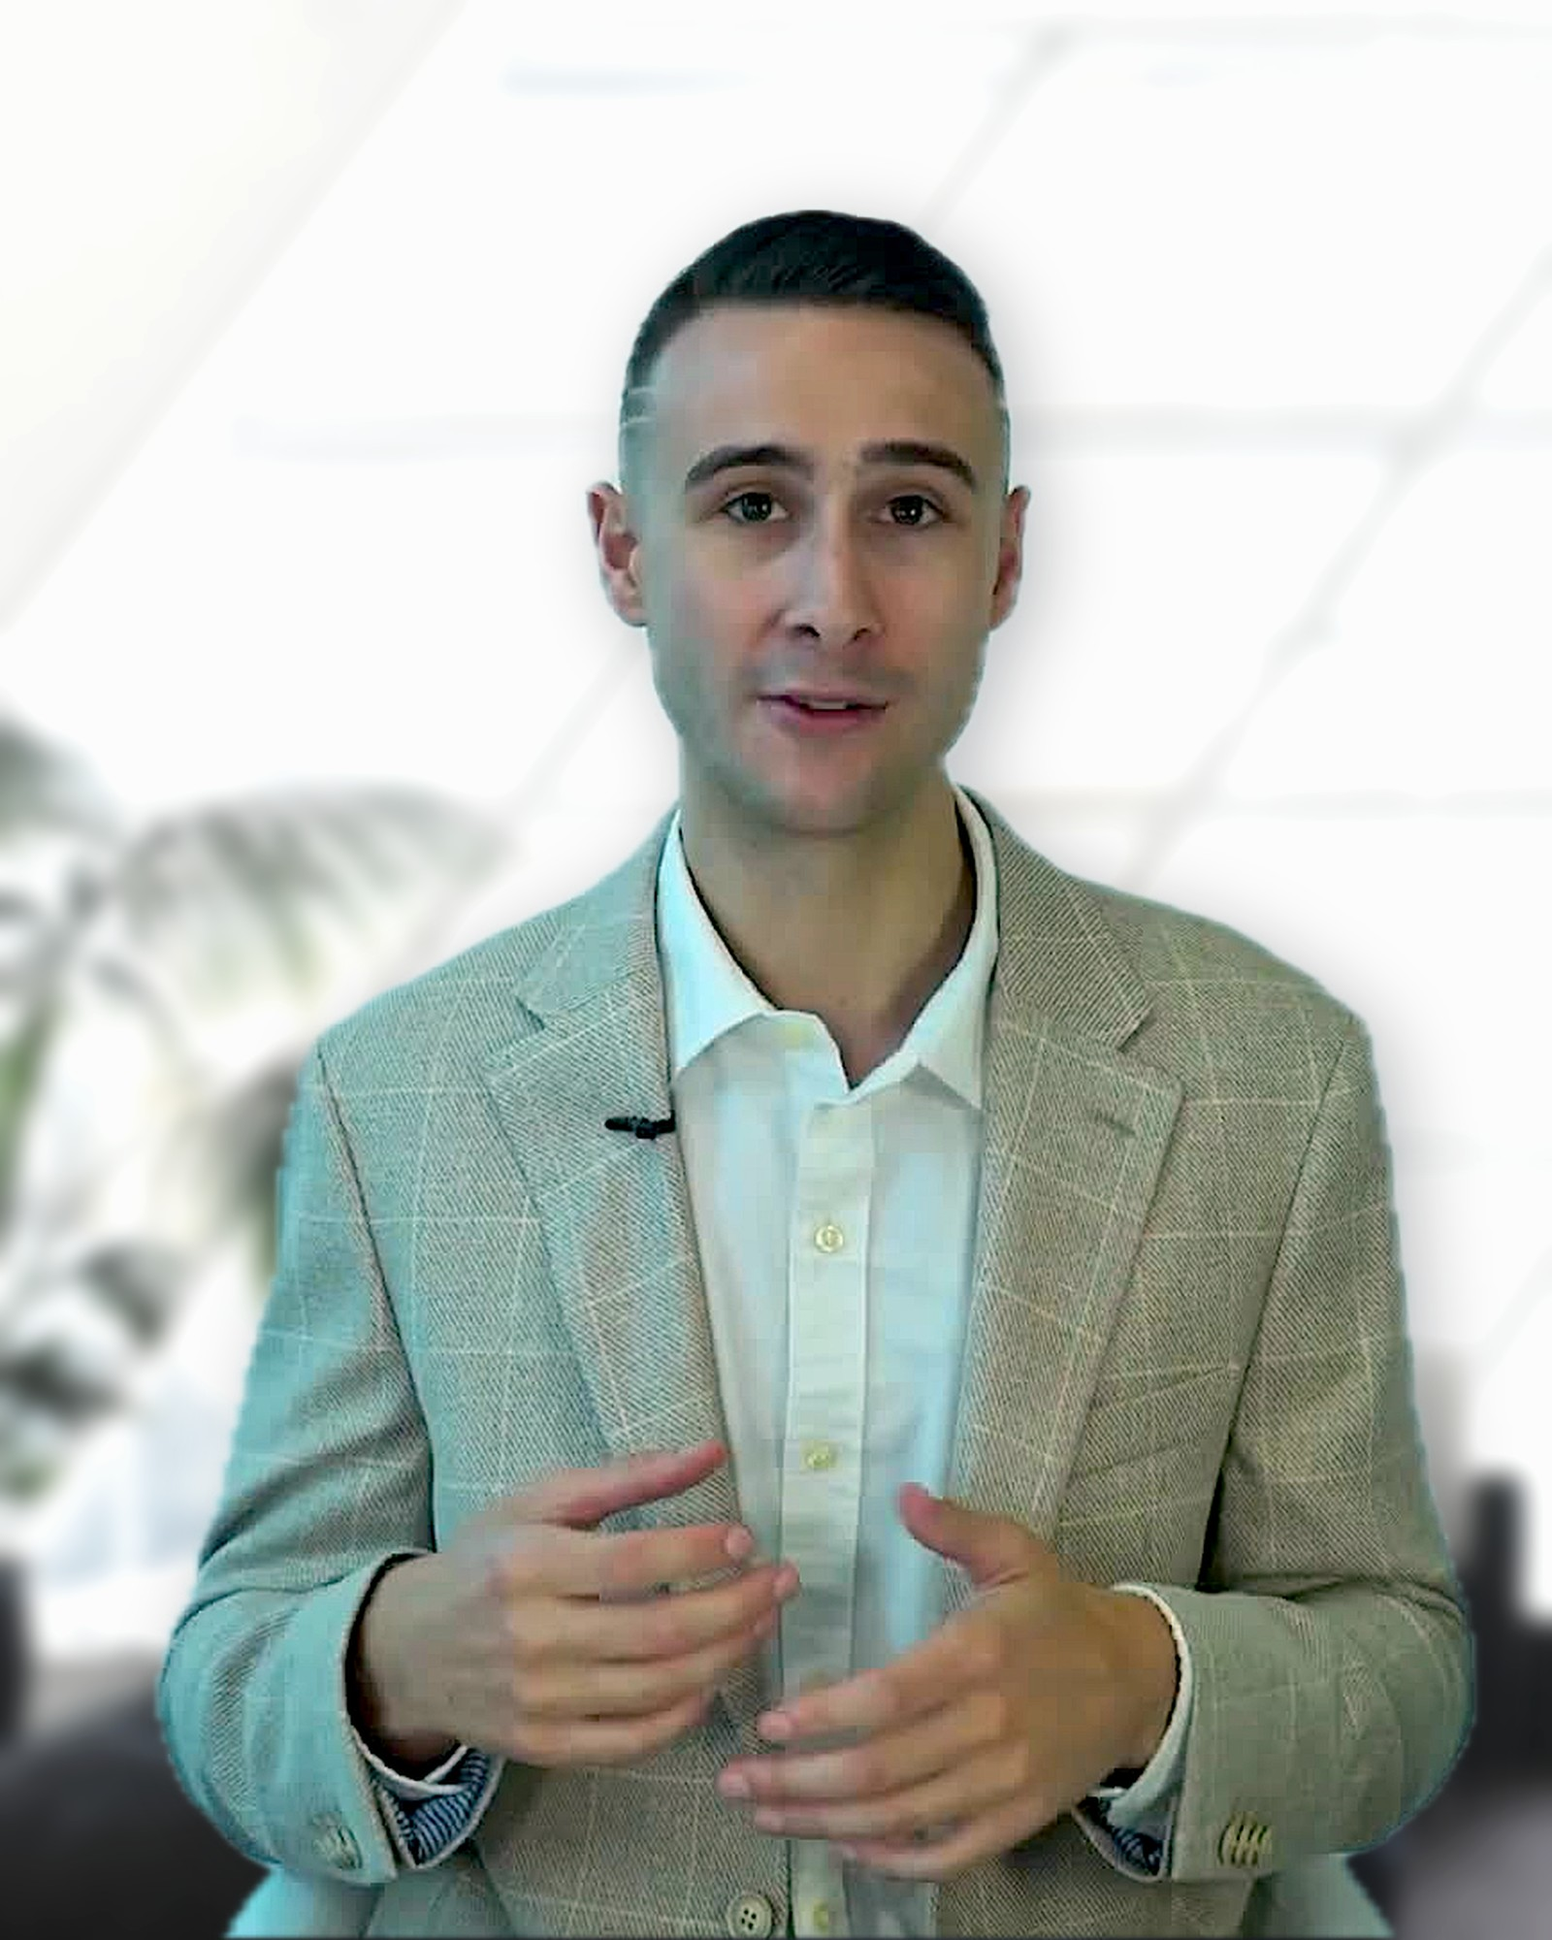
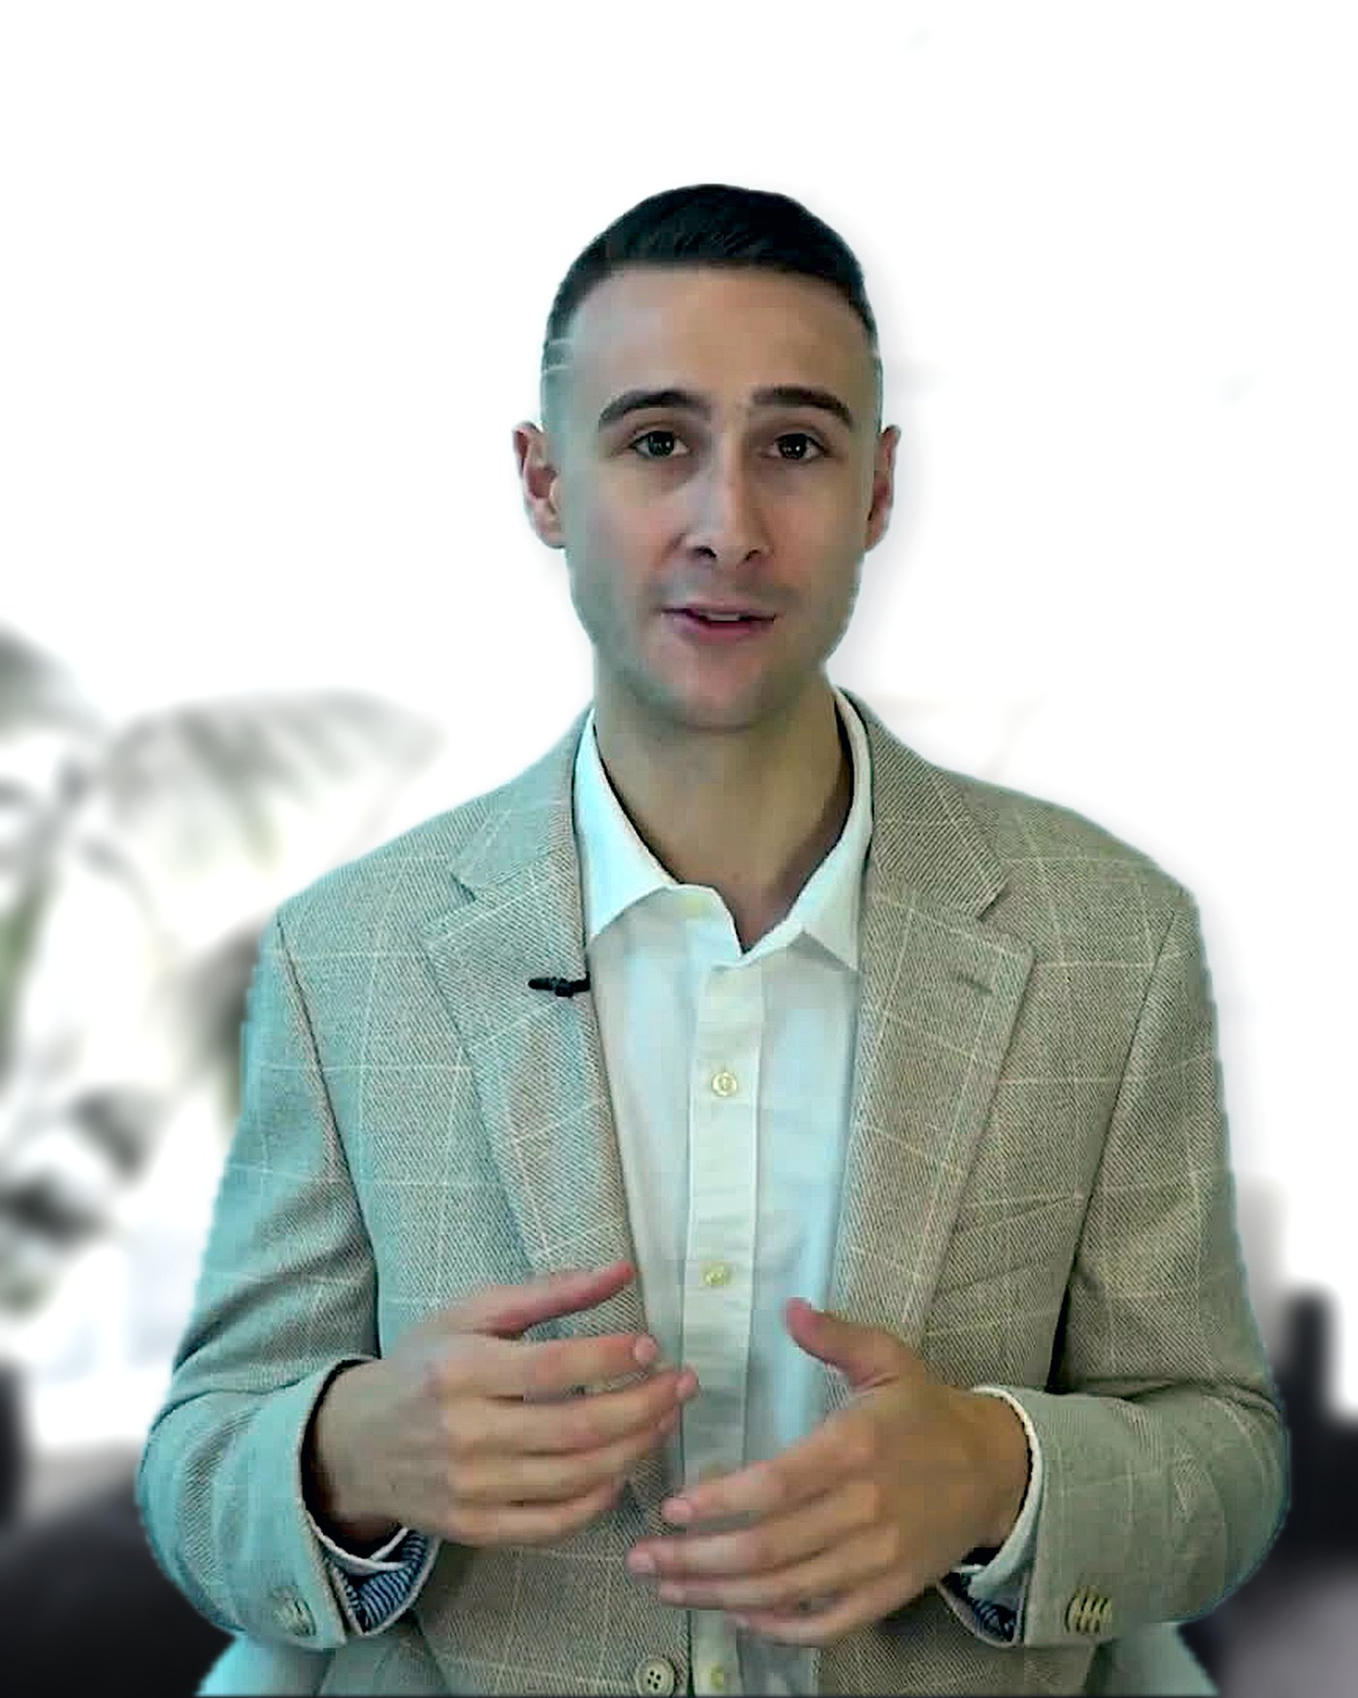
Premium craft pass: art-directed photography, arrival choreography, type
The layout was right after the redesign; what still read as a template was
the photography, the arrival, and the micro-detail. Applying
high-end-visual-design's Editorial Luxury archetype, and deliberately NOT
its pill/double-bezel component rules, which belong to the SaaS register and
would break the sharp editorial one this site is built in.

Photography, the biggest lift:
- Six images from six photographers averaged to six different colours, which
  is the whole "stock photo" tell. Built a grading pass: gray-world white
  balance to kill each frame's cast, gamma exposure match to a common mean
  luminance, desaturation to 0.70, a gentle S-curve, then a split tone with
  shadows to brand navy and highlights to warm cream. All six now average to
  the same neutral and read as one commissioned shoot.
- Josh gets a much lighter version of the same grade so his skin keeps its
  warmth; the hero composite was rebuilt from source in a single pass rather
  than grading an already-graded file.
- Right-sized every image to roughly 2x its real rendered box: assets 6.8MB
  down to 5.0MB. First paint is part of feeling expensive.

Arrival choreography, replacing a flat fade:
- The headline now rises line by line out of its own overflow mask, the
  photograph settles out of a 1.07 scale behind a wiping cream panel, the
  orange rule draws down, and everything else follows one stagger clock.
- Sequenced off document.fonts.ready so the reveal never plays against a
[…]

diff --git a/index.html b/index.html
@@ -16,7 +16,8 @@
 <meta name="twitter:image" content="assets/og.jpg">
 <link rel="preconnect" href="https://fonts.googleapis.com">
 <link rel="preconnect" href="https://fonts.gstatic.com" crossorigin>
-<link href="https://fonts.googleapis.com/css2?family=Playfair+Display:ital,wght@0,400;0,500;0,600;0,700;0,800;1,400;1,500;1,600;1,700&family=Inter:wght@400;500;600;700&display=swap" rel="stylesheet">
+<link href="https://fonts.googleapis.com/css2?family=Playfair+Display:ital,opsz,wght@0,5..1200,400..800;1,5..1200,400..700&family=Inter:opsz,wght@14..32,400..700&display=swap" rel="stylesheet">
+<link rel="preload" as="image" href="assets/hero-josh.jpg" fetchpriority="high">
 <style>
 /* ==========================================================================
    JD STRATEGIC FRANCHISING
@@ -45,7 +46,7 @@
 
   --gut:clamp(20px,4.4vw,64px);
   --maxw:1240px;
-  --pad:clamp(64px,7vw,116px);
+  --pad:clamp(64px,7.6vw,144px);
   --nav-h:74px;
   --bar-h:40px;
 }
@@ -54,11 +55,16 @@ body{
   margin:0;background:var(--canvas);color:var(--body);
   font-family:var(--fb);font-size:17px;line-height:1.62;font-weight:400;
   -webkit-font-smoothing:antialiased;-moz-osx-font-smoothing:grayscale;
+  font-optical-sizing:auto;
+  /* Inter's humanist alternates: single-storey a stays, but the g, l and
+     ampersand pick up the shapes that read as drawn rather than defaulted */
+  font-feature-settings:'cv05' 1,'cv08' 1,'cv11' 1,'ss03' 1;
+  text-rendering:optimizeLegibility;
 }
 img{max-width:100%;display:block;height:auto}
 a{color:inherit;text-decoration:none}
 button{font:inherit;color:inherit;background:none;border:0;cursor:pointer}
-h1,h2,h3,h4{margin:0;font-family:var(--fd);color:var(--ink);font-weight:700;line-height:1.06;letter-spacing:-.012em}
+h1,h2,h3,h4{margin:0;font-family:var(--fd);color:var(--ink);font-weight:700;line-height:1.06;letter-spacing:-.012em;font-optical-sizing:auto;text-wrap:balance}
 p{margin:0}
 ul{margin:0;padding:0;list-style:none}
 :focus-visible{outline:2px solid var(--accent);outline-offset:3px}
@@ -84,7 +90,7 @@ section{padding-block:var(--pad);position:relative;scroll-margin-top:calc(var(--
   font-size:clamp(34px,5.1vw,68px);line-height:1.045;letter-spacing:-.018em;
 }
 .display .it{font-style:italic;color:var(--accent);font-weight:600}
-.lede{font-size:clamp(16.5px,1.3vw,19px);line-height:1.66;color:var(--body);max-width:60ch}
+.lede{font-size:clamp(16.5px,1.3vw,19px);line-height:1.66;color:var(--body);max-width:60ch;text-wrap:pretty}
 .dark .lede{color:rgba(255,255,255,.66)}
 .kicker{font-family:var(--fd);font-size:clamp(22px,2.2vw,30px);font-weight:600;line-height:1.28;color:var(--ink);letter-spacing:-.01em}
 .small{font-size:14.5px;line-height:1.6;color:var(--muted)}
@@ -281,7 +287,7 @@ section{padding-block:var(--pad);position:relative;scroll-margin-top:calc(var(--
 .proc-row{
   display:grid;grid-template-columns:58px minmax(0,1fr);gap:clamp(14px,2.2vw,30px);
   padding-block:30px;border-bottom:1px solid var(--hairline);align-items:start;
-  transition:background .3s ease;
+  transition:background .5s var(--ease-cine);
 }
 .proc-row:hover{background:var(--band)}
 .proc-row .num{padding-top:6px}
@@ -307,7 +313,7 @@ section{padding-block:var(--pad);position:relative;scroll-margin-top:calc(var(--
   text-transform:uppercase;color:var(--muted);
 }
 .tcard q{
-  display:block;font-family:var(--fd);font-style:italic;font-weight:700;
+  display:block;hanging-punctuation:first;text-indent:-.4em;font-family:var(--fd);font-style:italic;font-weight:700;
   font-size:clamp(21px,2.2vw,32px);line-height:1.24;color:var(--ink);
   letter-spacing:-.014em;quotes:none;margin-bottom:22px;
 }
@@ -336,7 +342,7 @@ section{padding-block:var(--pad);position:relative;scroll-margin-top:calc(var(--
 .fittop{display:flex;align-items:center;justify-content:space-between;gap:16px;padding:20px clamp(24px,3vw,40px);border-bottom:1px solid var(--hairline)}
 .fitstep{font-size:10.5px;font-weight:700;letter-spacing:.2em;text-transform:uppercase;color:var(--muted)}
 .fitbar{width:140px;height:2px;background:var(--hairline);flex:none}
-.fitbar i{display:block;height:100%;width:33.33%;background:var(--accent);transition:width .5s var(--ease)}
+.fitbar i{display:block;height:100%;width:100%;background:var(--accent);transform:scaleX(.3333);transform-origin:left;transition:transform .55s var(--ease-cine)}
 .fitbody{padding:clamp(30px,4vw,52px) clamp(24px,3.4vw,48px)}
 .fitq{font-family:var(--fd);font-size:clamp(23px,2.5vw,34px);font-weight:700;color:var(--ink);line-height:1.16;letter-spacing:-.016em;margin-bottom:12px}
 .fithint{font-size:15px;color:var(--muted);margin-bottom:30px}
@@ -375,7 +381,7 @@ section{padding-block:var(--pad);position:relative;scroll-margin-top:calc(var(--
 .tl-r h4{font-family:var(--fd);font-size:17px;font-weight:700;color:var(--ink);line-height:1.3}
 .tl-r p{font-size:15.5px;line-height:1.62;max-width:52ch}
 .pq{margin-top:44px;padding-top:34px;border-top:2px solid var(--ink)}
-.pq q{display:block;font-family:var(--fd);font-style:italic;font-weight:700;font-size:clamp(22px,2.4vw,32px);line-height:1.26;color:var(--ink);letter-spacing:-.014em;quotes:none}
+.pq q{display:block;hanging-punctuation:first;text-indent:-.42em;font-family:var(--fd);font-style:italic;font-weight:700;font-size:clamp(22px,2.4vw,32px);line-height:1.26;color:var(--ink);letter-spacing:-.014em;quotes:none}
 .pq q::before{content:"\201C"}.pq q::after{content:"\201D"}
 .pq cite{display:block;margin-top:18px;font-style:normal;font-size:11.5px;font-weight:700;letter-spacing:.18em;text-transform:uppercase;color:var(--muted)}
 
@@ -387,7 +393,7 @@ section{padding-block:var(--pad);position:relative;scroll-margin-top:calc(var(--
 .cat::after{content:"";position:absolute;inset:0;background:linear-gradient(to top,rgba(6,16,32,.9),rgba(6,16,32,.05) 62%)}
 .cat .lab{position:absolute;left:0;right:0;bottom:0;z-index:2;padding:24px 22px}
 .cat .lab b{display:block;font-family:var(--fd);font-size:clamp(17px,1.5vw,22px);font-weight:700;color:#fff;letter-spacing:-.008em}
-.cat .lab span{display:block;font-size:12.5px;color:rgba(255,255,255,.6);margin-top:6px;line-height:1.45}
+.cat .lab span{display:block;font-size:12.5px;color:rgba(255,255,255,.6);margin-top:6px;line-height:1.45;min-height:2.9em}
 .cats-foot{margin-top:34px;font-family:var(--fd);font-size:clamp(18px,1.8vw,24px);font-weight:500;line-height:1.4;color:rgba(255,255,255,.9);max-width:62ch}
 
 /* ---------- comparison ---------- */
@@ -483,15 +489,91 @@ section{padding-block:var(--pad);position:relative;scroll-margin-top:calc(var(--
 .flegal p+p{margin-top:14px}
 .fcopy{margin-top:26px;padding-top:22px;border-top:1px solid rgba(255,255,255,.08);display:flex;flex-wrap:wrap;gap:12px 26px;justify-content:space-between;font-size:12.5px}
 
+/* ---------- haptics: physical press, kinetic arrow, considered focus ---------- */
+.btn{position:relative;overflow:hidden;isolation:isolate}
+.btn::before{
+  content:"";position:absolute;inset:0;z-index:-1;background:currentColor;
+  opacity:0;transform:translateY(101%);transition:transform .55s var(--ease-cine),opacity .4s ease;
+}
+.btn-solid::before,.btn-accent::before{background:#fff;opacity:0}
+.btn-solid:hover::before,.btn-accent:hover::before{opacity:.09;transform:none}
+.btn-ghost:hover::before{opacity:0}
+.btn:active{transform:scale(.985)}
+.btn svg{transition:transform .42s var(--ease-cine)}
+.btn:hover svg{transform:translateX(6px)}
+
+/* editorial photography answers the cursor slowly, like a plate being leaned into */
+.figband,.proc-fig img,.about-fig{overflow:hidden}
+.figband img,.proc-fig img,.about-fig img{
+  transition:transform 1.3s var(--ease-cine),filter 1.3s var(--ease-cine);
+  will-change:transform;
+}
+.figband:hover img,.proc-fig:hover img,.about-fig:hover img{transform:scale(1.028)}
+
+.tcard,.tsm{transition:border-color .5s var(--ease-cine),background .5s var(--ease-cine)}
+.tsm:hover{border-color:#D6DCE4;background:#fff}
+.proc-row > *{transition:transform .45s var(--ease-cine)}
+.proc-row:hover > *{transform:translateX(12px)}
+.fitopt{transition:padding .42s var(--ease-cine),background .42s var(--ease-cine),border-color .3s ease}
+
+:focus-visible{outline:2px solid var(--accent);outline-offset:4px}
+
+/* the one element that genuinely floats gets a real, long shadow */
+.hero-quote{box-shadow:0 34px 70px -34px rgba(6,16,32,.55),0 2px 6px -2px rgba(6,16,32,.16)}
+
+/* dark sections get a hairline of light along their top edge, the way a
+   printed ink block catches the paper it sits on */
+.dark::before,.final::before,.credband::before{
+  content:"";position:absolute;left:0;right:0;top:0;height:1px;z-index:3;
+  background:linear-gradient(90deg,transparent,rgba(255,255,255,.13) 22%,rgba(255,255,255,.13) 78%,transparent);
+}
+.credband{position:relative}
+
+/* ---------- arrival choreography ----------
+   One orchestrated entrance on load: the headline rises line by line out of
+   its own mask, the photograph settles out of a slow scale, everything else
+   follows on a single stagger clock. Runs once, after the fonts resolve, so
+   the reveal never plays against a fallback face.
+   -------------------------------------------------------------------- */
+:root{--ease-cine:cubic-bezier(.19,1,.22,1)}
+.hero h1 .ln{display:block;overflow:hidden;padding-bottom:.1em;margin-bottom:-.1em}
+.hero h1 .ln > span{
+  display:block;transform:translateY(112%);
+  transition:transform 1.15s var(--ease-cine);
+}
+.hero h1 .ln:nth-child(2) > span{transition-delay:.10s}
+body.ready .hero h1 .ln > span{transform:none}
+
+.hv{opacity:0;transform:translateY(15px);
+    transition:opacity .95s var(--ease-cine),transform .95s var(--ease-cine)}
+body.ready .hv{opacity:1;transform:none;transition-delay:calc(var(--i,0) * 70ms + .18s)}
+
+.hero-photo img{transform:scale(1.07);transition:transform 2.1s var(--ease-cine)}
+body.ready .hero-photo img{transform:none}
+.hero-photo::after{
+  content:"";position:absolute;inset:0;z-index:1;background:var(--cream);
+  transform-origin:bottom;transition:transform 1.25s var(--ease-cine) .05s;
+}
+body.ready .hero-photo::after{transform:scaleY(0)}
+.hero-copy::before{transform:scaleY(0);transform-origin:top;transition:transform 1.1s var(--ease-cine) .5s}
+body.ready .hero-copy::before{transform:none}
+
 /* ---------- motion ---------- */
-[data-r]{opacity:0;transform:translateY(24px);transition:opacity .8s var(--ease),transform .8s var(--ease)}
+[data-r]{opacity:0;transform:translateY(26px);transition:opacity .9s var(--ease-cine),transform .9s var(--ease-cine),filter .9s var(--ease-cine)}
+.display[data-r],h2[data-r]{filter:blur(5px)}
+.display[data-r].in,h2[data-r].in{filter:none}
 [data-r].in{opacity:1;transform:none}
 [data-d="1"]{transition-delay:.09s}[data-d="2"]{transition-delay:.18s}
 [data-d="3"]{transition-delay:.27s}[data-d="4"]{transition-delay:.36s}
 @media (prefers-reduced-motion:reduce){
   html{scroll-behavior:auto}
   *,*::before,*::after{animation-duration:.001ms!important;animation-iteration-count:1!important;transition-duration:.001ms!important}
-  [data-r]{opacity:1;transform:none}
+  [data-r]{opacity:1;transform:none;filter:none}
+  .hv{opacity:1;transform:none}
+  .hero h1 .ln > span{transform:none}
+  .hero-photo img{transform:none}
+  .hero-photo::after{transform:scaleY(0)}
+  .hero-copy::before{transform:none}
   .credtrack,.eptrack{animation:none}
 }
 
@@ -503,7 +585,12 @@ section{padding-block:var(--pad);position:relative;scroll-margin-top:calc(var(--
   .hero h1{font-size:clamp(76px,4.2vw,88px)}
   .ep{width:262px}
 }
-@media (min-width:2200px){ :root{--maxw:1580px} .hero h1{font-size:96px} }
+@media (min-width:2200px){
+  :root{--maxw:1580px}
+  .hero h1{font-size:96px}
+  /* widen the copy rail so the larger optical size still holds two lines */
+  .hero-copy{padding-left:max(var(--gut),calc((100vw - 1800px)/2 + var(--gut)))}
+}
 @media (max-width:1240px){
   .nav-links{gap:16px}
   .nav-links a{font-size:11.5px;letter-spacing:.1em}
@@ -609,33 +696,33 @@ section{padding-block:var(--pad);position:relative;scroll-margin-top:calc(var(--
 <section class="hero" aria-labelledby="h1">
   <div class="hero-grid">
     <div class="hero-copy">
-      <p class="eyebrow" data-r>Franchise owners helping future franchise owners</p>
-      <h1 id="h1" data-r data-d="1">Buy a franchise<br><span class="it">worth owning.</span></h1>
-      <p class="hero-sub" data-r data-d="2">
+      <p class="eyebrow hv" style="--i:0">Franchise owners helping future franchise owners</p>
+      <h1 id="h1"><span class="ln"><span>Buy a franchise</span></span><span class="ln"><span class="it">worth owning.</span></span></h1>
+      <p class="hero-sub hv" style="--i:3">
         I help professionals and investors find the few franchises actually worth owning,
         based on your capital, your goals, your market, and the role you want to play.
       </p>
-      <a class="btn btn-solid hero-cta" href="#fit" data-r data-d="3">
+      <a class="btn btn-solid hero-cta hv" style="--i:4" href="#fit">
         Find My Franchise Fit
         <svg viewBox="0 0 24 24" fill="none" stroke="currentColor" stroke-width="2" stroke-linecap="round" stroke-linejoin="round" aria-hidden="true"><path d="M5 12h14M13 6l6 6-6 6"/></svg>
       </a>
-      <p class="reassure" data-r data-d="3">Free. Takes about 30 seconds. No pressure.</p>
+      <p class="reassure hv" style="--i:5">Free. Takes about 30 seconds. No pressure.</p>
 
-      <div class="hero-rule" data-r data-d="4"></div>
-      <div class="hstats" data-r data-d="4">
-        <div class="hstat">
+      <div class="hero-rule hv" style="--i:6"></div>
+      <div class="hstats">
+        <div class="hstat hv" style="--i:7">
           <svg viewBox="0 0 24 24" fill="none" stroke="currentColor" stroke-linecap="round" stroke-linejoin="round" aria-hidden="true"><path d="M16 21v-2a4 4 0 0 0-4-4H6a4 4 0 0 0-4 4v2"/><circle cx="9" cy="7" r="4"/><path d="M22 21v-2a4 4 0 0 0-3-3.87"/></svg>
           <div class="n"><span data-count="2400" data-fmt="comma">0</span>+</div>
           <div class="l">Locations scaled</div>
           <p class="d">The brand his family helped grow.</p>
         </div>
-        <div class="hstat">
+        <div class="hstat hv" style="--i:8">
           <svg viewBox="0 0 24 24" fill="none" stroke="currentColor" stroke-linecap="round" stroke-linejoin="round" aria-hidden="true"><path d="M12 2 4 5.5v6c0 5 3.4 9.2 8 10.5 4.6-1.3 8-5.5 8-10.5v-6Z"/><path d="m9 12 2 2 4-4"/></svg>
           <div class="n">$0</div>
           <div class="l">Cost to you</div>
           <p class="d">Paid by franchise partners, never the buyer.</p>
         </div>
-        <div class="hstat">
+        <div class="hstat hv" style="--i:9">
           <svg viewBox="0 0 24 24" fill="none" stroke="currentColor" stroke-linecap="round" stroke-linejoin="round" aria-hidden="true"><path d="M12 2 15 8.5l7 1-5 4.9 1.2 7L12 18.1 5.8 21.4 7 14.4 2 9.5l7-1Z"/></svg>
           <div class="n">3&ndash;<span data-count="5">0</span></div>
           <div class="l">Brands shortlisted</div>
@@ -646,7 +733,7 @@ section{padding-block:var(--pad);position:relative;scroll-margin-top:calc(var(--
 
     <div class="hero-photo">
       <img src="assets/hero-josh.jpg" width="1600" height="2000" alt="Josh DuBois, founder of JD Strategic Franchising" fetchpriority="high" decoding="async">
-      <figure class="hero-quote" data-r data-d="3">
+      <figure class="hero-quote hv" style="--i:9">
         <span class="qm" aria-hidden="true">&ldquo;</span>
         <div>
           <p>I've lived every side of it, the good deals and the bad ones.</p>
@@ -1045,6 +1132,14 @@ section{padding-block:var(--pad);position:relative;scroll-margin-top:calc(var(--
   'use strict';
   var RM = window.matchMedia('(prefers-reduced-motion: reduce)').matches;
 
+  /* ---- arrival: wait for the real faces, then run the sequence once ---- */
+  function ready(){ document.body.classList.add('ready'); }
+  if (RM) { ready(); }
+  else if (document.fonts && document.fonts.ready) {
+    document.fonts.ready.then(function(){ requestAnimationFrame(ready); });
+    setTimeout(ready, 1800);
+  } else { requestAnimationFrame(ready); }
+
   /* ---- belts: each pass must be wider than the widest supported viewport ---- */
   var IC={
     shield:'<path d="M12 2 4 5.5v6c0 5 3.4 9.2 8 10.5 4.6-1.3 8-5.5 8-10.5v-6Z"/>',
@@ -1148,7 +1243,7 @@ section{padding-block:var(--pad);position:relative;scroll-margin-top:calc(var(--
   function go(n){
     panels.forEach(function(p){ p.classList.toggle('active', p.getAttribute('data-panel')===String(n)); });
     if(stepEl) stepEl.textContent = n>3 ? 'Your read' : 'Question '+n+' of 3';
-    if(barEl) barEl.style.width = (n>3?100:(n/3)*100)+'%';
+    if(barEl) barEl.style.transform = 'scaleX(' + (n>3?1:n/3) + ')';
     var card=document.querySelector('.fitcard');
     if(card){
       var top=card.getBoundingClientRect().top+window.pageYOffset-120;
